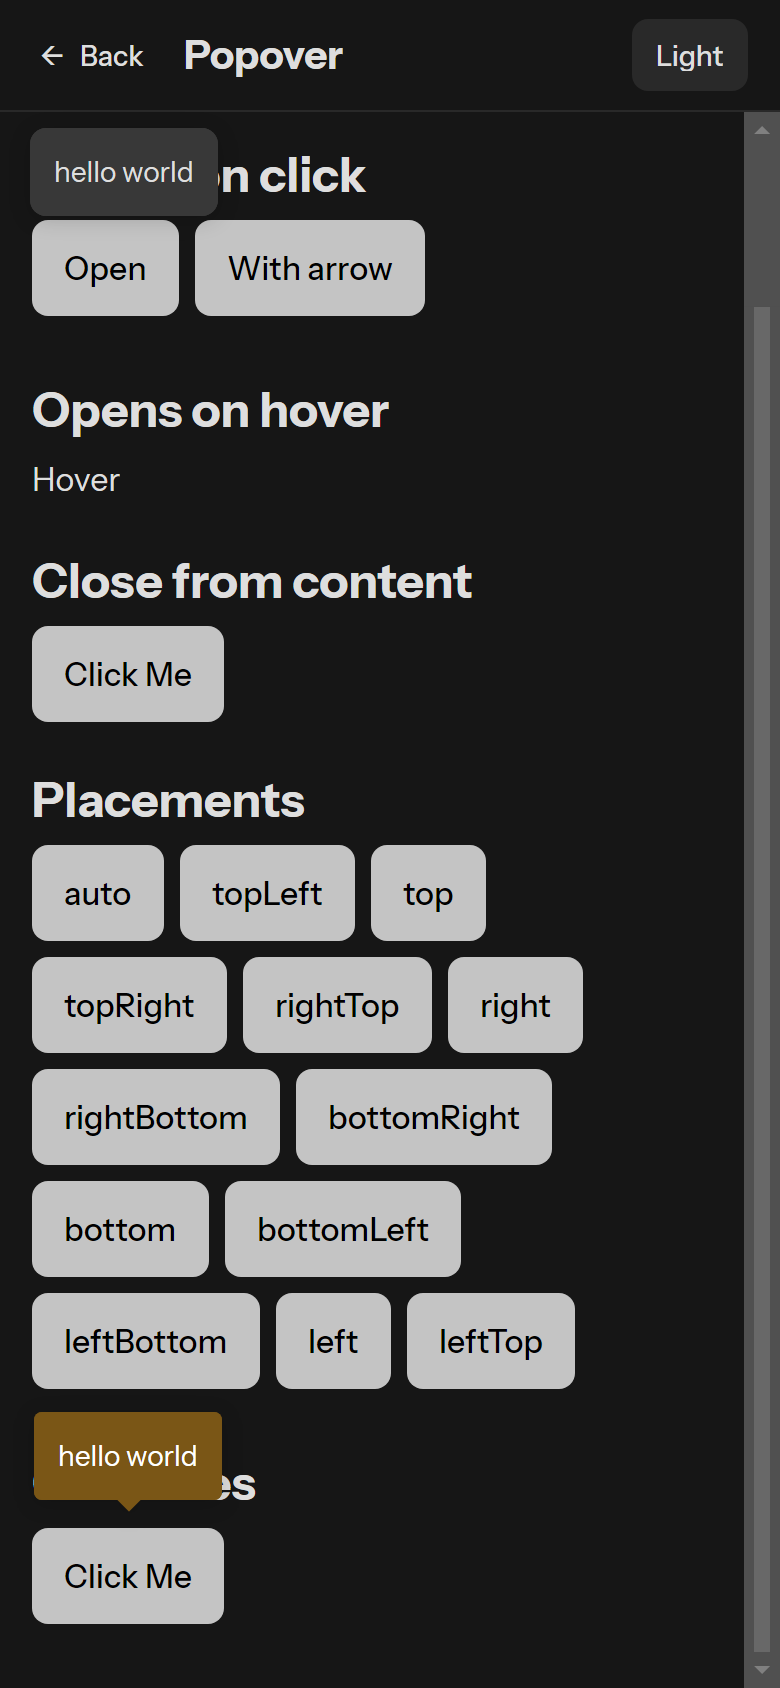
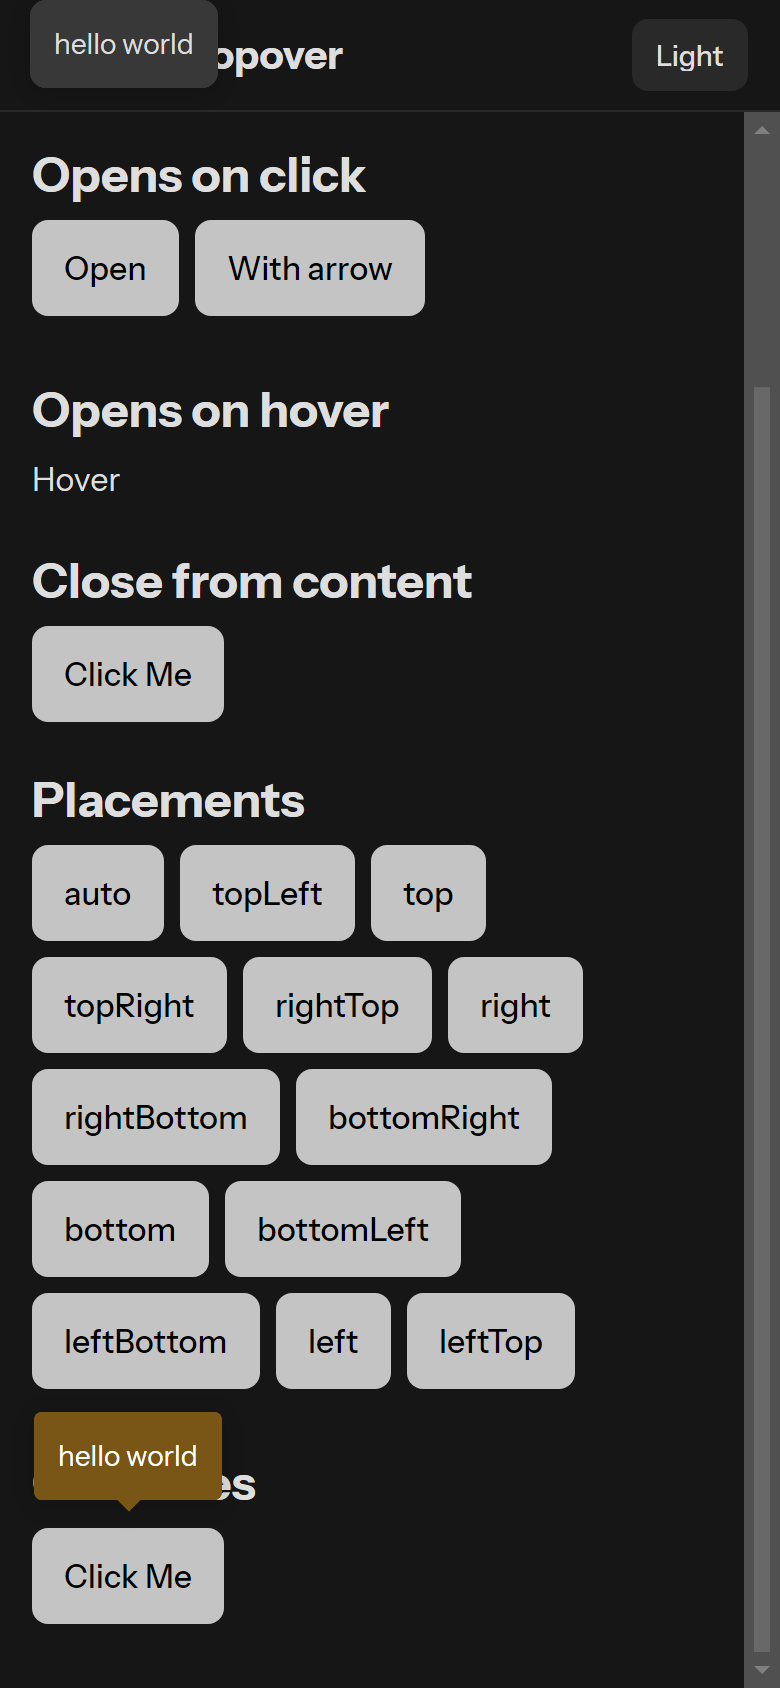
Popover: a page that scrolls is the document; room below the always-open example (#106)
preventOverflow keeps to what the anchor's scroll viewer scrolls, all of it, no smaller than
what it shows: the document a Base Web popover keeps to in a page that scrolls, so a popover
goes with its anchor rather than staying at the scroller's edge (an always-open one was left
over the page's other examples in the pictures). The sample's always-open example has room
below it for its body, which covered the next example's button in a window without the shell
(a Release run's tap landed on it); the page test checks nothing covers that button.

Changed region(s): [[0.0308, 0.0, 0.2769, 0.154]]

diff --git a/tests/Metered.Tests/Controls/PopoverTests.cs b/tests/Metered.Tests/Controls/PopoverTests.cs
@@ -968,14 +968,16 @@ public class PopoverTests
     // ---- Placement in a page ----
 
     [AvaloniaFact]
-    public void It_follows_its_anchor_as_the_page_scrolls_and_stays_inside_the_scrollers_box()
+    public void It_follows_its_anchor_as_the_page_scrolls_and_leaves_with_it()
     {
         var (popover, anchor, _) = Fixed(150, 400);
         popover.Placement = PopoverPlacement.Bottom;
         var page = new ScrollViewer { Content = new Panel { Height = 2000, Children = { popover } } };
         var bar = new Border { Height = 56 };
         DockPanel.SetDock(bar, Dock.Top);
-        using var scene = Show(new DockPanel { Children = { bar, page } });
+        var foot = new Border { Height = 56 };
+        DockPanel.SetDock(foot, Dock.Bottom);
+        using var scene = Show(new DockPanel { Children = { bar, foot, page } });
         scene.Click(anchor);
         Settle(scene);
         var before = BoxOf(Body(popover), scene);
@@ -983,11 +985,23 @@ public class PopoverTests
         Settle(scene);
         Assert.Equal(before.Translate(new Vector(0, -100)), BoxOf(Body(popover), scene));
 
-        // The anchor scrolled above the scroller: popper.js's preventOverflow keeps the body in its scroll parent's box.
+        // The anchor scrolled out of the window: the page that scrolls is the document, which preventOverflow keeps to, so
+        // the body goes with its anchor, as a Base Web popover in a page that scrolls.
         page.Offset = new Vector(0, 800);
         Settle(scene);
-        Assert.Equal(56 + 8, BoxOf(Body(popover), scene).Top);
+        Assert.Equal(before.Translate(new Vector(0, -800)), BoxOf(Body(popover), scene));
         Assert.Equal(PopoverPlacement.Bottom, popover.ActualPlacement);
+
+        // Near the page's own end, it is kept inside it: the body would pass the end of what scrolls (above the foot, not
+        // the window's), so it is held there.
+        var (low, lowAnchor, _) = Fixed(150, 1960);
+        low.Placement = PopoverPlacement.Right;
+        ((Panel)page.Content!).Children.Add(low);
+        page.Offset = new Vector(0, 2000);
+        Settle(scene);
+        scene.Click(lowAnchor);
+        Settle(scene);
+        Assert.Equal(844 - 56, BoxOf(Body(low), scene).Bottom, 0);
     }
 
     [AvaloniaFact]

diff --git a/src/Metered.Controls/Controls/Popover/Popover.cs b/src/Metered.Controls/Controls/Popover/Popover.cs
@@ -551,11 +551,16 @@ public class Popover : TemplatedControl
     }
 
     /// <summary>
-    /// popper.js's <c>preventOverflow</c> boundaries: the anchor's scroll parent, the box its nearest scroll viewer shows
-    /// (popper.js's nearest element whose overflow scrolls), found when it opens; none (the window) without one.
+    /// popper.js's <c>preventOverflow</c> boundaries: a layer in the body keeps to the document, the whole page however far
+    /// it scrolls. An app's page scrolls in a scroll viewer: what it scrolls (its content, all of it) is the document, so a
+    /// popover whose anchor scrolls away goes with it. Without one, the window. Found when it opens.
     /// </summary>
     private Rect? ScrollParent() =>
-        _scrollParent is { } shown && _top is not null && shown.TranslatePoint(default, _top) is { } at ? new Rect(at, shown.Bounds.Size) : null;
+        _scrollParent is { Child: Visual page } shown && _top is not null && page.TranslatePoint(default, _top) is { } at
+            && shown.TranslatePoint(default, _top) is { } seen
+            // No smaller than what it shows, as a document is no smaller than the viewport.
+            ? new Rect(at, page.Bounds.Size).Union(new Rect(seen, shown.Bounds.Size))
+            : null;
 
     private void FindScrollParent()
     {

diff --git a/src/Metered.Controls/Controls/Popover/Tether.cs b/src/Metered.Controls/Controls/Popover/Tether.cs
@@ -24,8 +24,8 @@ internal readonly record struct TetherResult(PopoverPlacement Placement, Point O
 /// modifier moved the other is the one computed before it, the body's size is its <c>offsetWidth</c> (rounded) plus its
 /// margins, and <c>auto</c>'s areas are the viewport's unpadded width and height.</para>
 /// <para>Two boundaries, as popper.js's: the viewport, which <c>auto</c> and <c>flip</c> keep to (the window's client
-/// area), and <c>preventOverflow</c>'s, the anchor's scroll parent (the box a scroll viewer shows, as popper.js's
-/// scrolling element's), or with none the document, which in an app's window that doesn't scroll is the window.
+/// area), and <c>preventOverflow</c>'s, the document (a page that scrolls in a scroll viewer: all it scrolls; with none,
+/// the window).
 /// tools/reference/tether.js runs popper.js itself on the same boxes; the tests compare.</para>
 /// </remarks>
 internal static class Tether

diff --git a/tests/Metered.Tests/Sample/PopoverPageTests.cs b/tests/Metered.Tests/Sample/PopoverPageTests.cs
@@ -71,6 +71,9 @@ public class PopoverPageTests
         var page = new PopoverPage();
         using var scene = Show(page);
         var open = (MeteredButton)page.Click.Anchor!;
+        PopoverTests.Settle(scene);
+        // The always-open example's body covers none of it.
+        Assert.True(Layers.IsWithin(scene.Window.GetVisualAt(scene.CentreOf(open)), open));
         Tap(scene, scene.CentreOf(open));
         PopoverTests.Settle(scene);
         Assert.True(page.Click.IsOpen);

diff --git a/docs/controls/Popover/README.md b/docs/controls/Popover/README.md
@@ -160,7 +160,7 @@ theme's entrance, so its opacity goes over them the moment the state changes.
   keyboard focus, `AutoFocus` and the blur; the entrance from its start, the exit at once and over `animateOutTime`,
   opened again during it; focus going inside or not by `AutoFocus` and accessibility type; the focus lock; content as a
   function, text, a control and data with its template; a binding following the clicks, `Open` and `Close`; opened on
-  load and taken out; overrides of the three parts, and of the body's margin; UI Automation; a page that scrolls; a flip
+  load and taken out; overrides of the three parts, and of the body's margin; UI Automation; a page that scrolls (the body leaving with its anchor, and held at the page's end); a flip
   near the window's foot; changes while it is shown (an Avalonia toggle button as the anchor, the arrow shown, the
   trigger type, a new anchor), a tab put away and back, a window close that is cancelled; a press in a combo box's
   drop-down in the content; an anchor that handles its own tap; focus in Tab's order; a finger's pointer entering a hover
@@ -188,11 +188,14 @@ entrance's transition and the hover body's pointer as Base Web's.
 2. **A finger never hovers** (touch first; as Radio's, Checkbox's and Switch's `:is-hovered`): a hover popover isn't
    opened by a tap. A phone's browser fires `mouseenter` on a tap, so Base Web's opens and stays open until a tap
    elsewhere. Keyboard focus still opens it. The alternative: a tap toggles a hover popover.
-3. **`preventOverflow` keeps the body inside the anchor's scroll viewer's box.** popper.js keeps it inside the anchor's
-   scroll parent: in a page that scrolls as a document, the whole document, so a popover goes off the screen with its
-   anchor; in a scrolling element, that element's box. An app's page is a scroll viewer: Metered takes it as the
-   scrolling element, so a popover whose anchor scrolls away stays at the scroller's edge (`flip` keeps to the window,
-   the viewport). Without a scroll viewer, the window.
+3. **`preventOverflow` keeps the body inside what the anchor's scroll viewer scrolls, all of it.** popper.js keeps it
+   inside the anchor's scroll parent: in a page that scrolls as a document (Base Web's layer is in the body), the whole
+   document, so a popover goes off the screen with its anchor; in a scrolling element, that element's box. An app's page
+   is a scroll viewer: Metered takes what it scrolls as the document, so a popover goes with its anchor, as on
+   baseweb.design (`flip` keeps to the window, the viewport). A popover in a small scrolling box inside a page leaves
+   that box with its anchor, where popper.js would hold it at the box's edge. Without a scroll viewer, the window. The overlay layer is the
+   window's: a popover whose anchor scrolls under something above the page (an app's bar) is drawn over it, where a
+   browser's page takes it off the top of the screen.
 4. **Focus goes back to the anchor when it closes, with or without a focus lock, whatever `ReturnFocus` says.** Base Web's leaves focus on the page when the
    focused element inside goes; Avalonia's popup gives focus back to what had it before it opened.
 5. **A menu's anchor isn't marked as having a popup or expanded** (`aria-haspopup`, `aria-expanded`,

diff --git a/docs/deviations.md b/docs/deviations.md
@@ -62,7 +62,7 @@ These are the ones to revisit first.
 | FormControl | The label's box is its hit area: the row's 16 px (20 with an end enhancer) | The hit area covers the row's 8 px margins, 32 px (36), nothing moved | 2026-11-21 night, #105 | [FormControl 10](controls/FormControl/README.md#known-differences) |
 | Popover | A controlled `Popover` changes nothing itself; a `StatefulPopover` its own state, its `onOpen` and `onClose` called for its own changes | One popover: a click on the anchor, a click outside and Escape set `IsOpen` whatever bound it; `Open` and `Close` raised on every change | as built (#106) | [Popover 1](controls/Popover/README.md#known-differences) |
 | Popover | A phone's browser fires `mouseenter` on a tap: a hover popover opens, until a tap elsewhere | A finger never hovers: a tap doesn't open a hover popover (keyboard focus does) | as built (#106) | [Popover 2](controls/Popover/README.md#known-differences) |
-| Popover | `preventOverflow` keeps the body in the anchor's scroll parent: in a page that scrolls as a document, the document, so it goes off the screen with its anchor | The page's scroll viewer is the scroll parent: a popover whose anchor scrolls away stays at the scroller's edge; the window without one | as built (#106) | [Popover 3](controls/Popover/README.md#known-differences) |
+| Popover | `preventOverflow` keeps the body in the anchor's scroll parent: the document for a page that scrolls (it goes off the screen with its anchor), a scrolling element's box for one inside it | What the anchor's scroll viewer scrolls is the document: a popover goes with its anchor; one in a small scrolling box leaves the box with it; the window without one | as built (#106) | [Popover 3](controls/Popover/README.md#known-differences) |
 | Popover | popper.js runs again only at the next scroll or resize: a body opened with `auto` above or to the left of its anchor touches it until then (its margin is on the far side) | The margin at the placement chosen is placed at once: popper.js's next update | as built (#106) | [Popover 11](controls/Popover/README.md#known-differences) |
 | Popover (sample) | The placements example opens on hover | On a click, so a finger can open them | as built (#106) | [Popover 6](controls/Popover/README.md#known-differences) |
 
